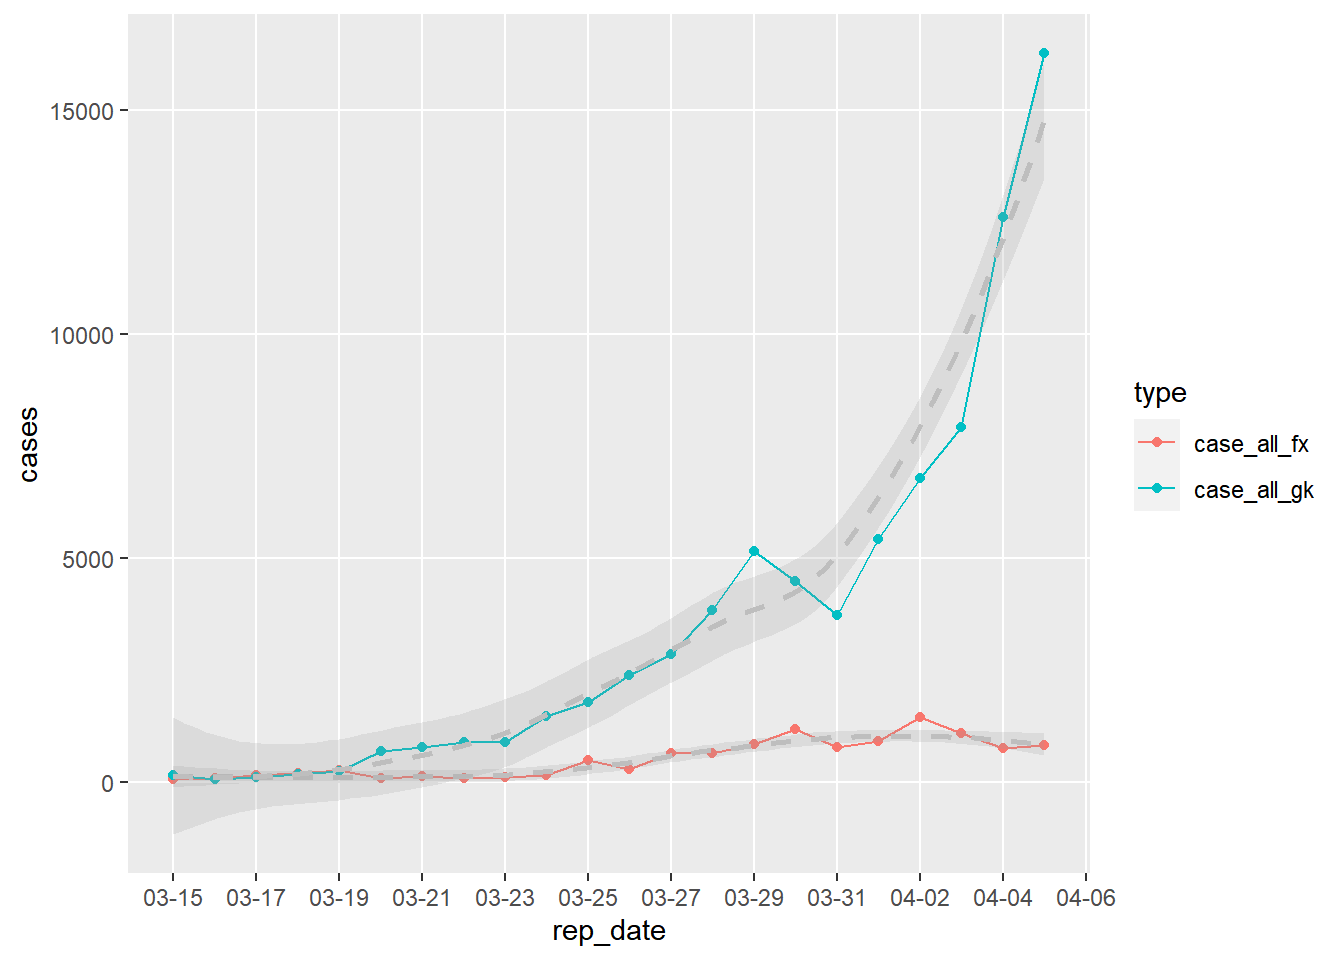
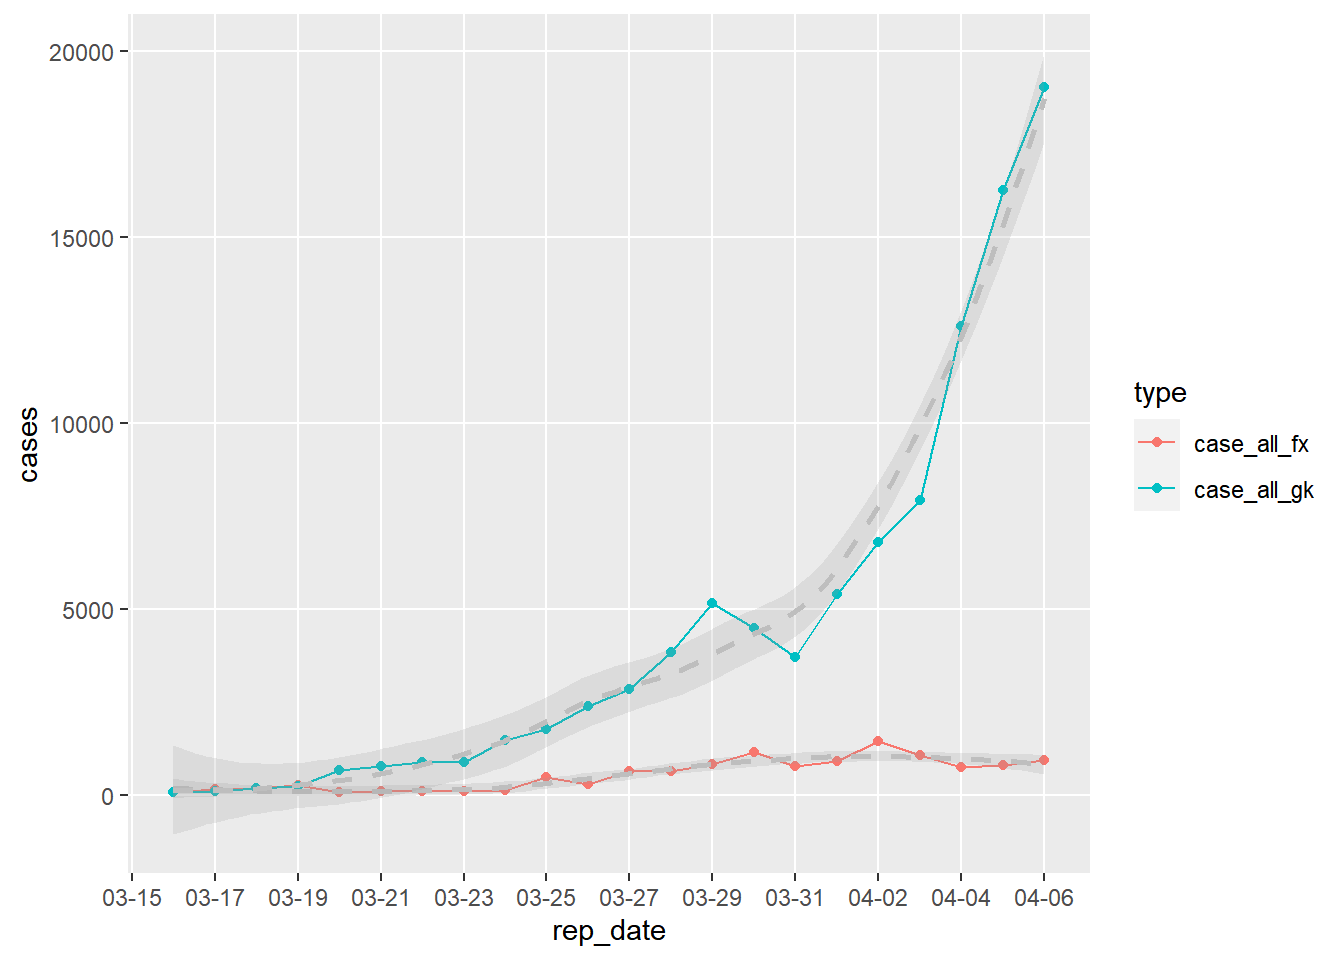
更新

diff --git a/content/post/2022-03-24-covidsh/index.html b/content/post/2022-03-24-covidsh/index.html
@@ -1,5 +1,5 @@
 ---
-title: R爬上海疫情数据简单可视化分析(4月6日更新)
+title: R爬上海疫情数据简单可视化分析(4月7日更新)
 author: Luo Fei
 date: '2022-03-24'
 slug: covidsh
@@ -51,7 +51,8 @@ library(tidyverse)
 library(lubridate)
 library(readxl)
 library(openxlsx)
-library(ggforce)</code></pre>
+library(ggforce)
+library(mgcv)</code></pre>
 </div>
 <div id="主页信息获取" class="section level2" number="1.3">
 <h2><span class="header-section-number">1.3</span> 主页信息获取</h2>
@@ -539,6 +540,19 @@ write.csv(basedata,&quot;data/basedata.csv&quot;)</code></pre>
 </thead>
 <tbody>
 <tr class="odd">
+<td align="left">2022-04-06</td>
+<td align="right">322</td>
+<td align="right">19660</td>
+<td align="right">15</td>
+<td align="right">12</td>
+<td align="right">19027</td>
+<td align="right">307</td>
+<td align="right">633</td>
+<td align="right">19982</td>
+<td align="right">19039</td>
+<td align="right">943</td>
+</tr>
+<tr class="even">
 <td align="left">2022-04-05</td>
 <td align="right">311</td>
 <td align="right">16766</td>
@@ -551,7 +565,7 @@ write.csv(basedata,&quot;data/basedata.csv&quot;)</code></pre>
 <td align="right">16260</td>
 <td align="right">817</td>
 </tr>
-<tr class="even">
+<tr class="odd">
 <td align="left">2022-04-04</td>
 <td align="right">268</td>
 <td align="right">13086</td>
@@ -564,7 +578,7 @@ write.csv(basedata,&quot;data/basedata.csv&quot;)</code></pre>
 <td align="right">12606</td>
 <td align="right">748</td>
 </tr>
-<tr class="odd">
+<tr class="even">
 <td align="left">2022-04-03</td>
 <td align="right">425</td>
 <td align="right">8581</td>
@@ -577,7 +591,7 @@ write.csv(basedata,&quot;data/basedata.csv&quot;)</code></pre>
 <td align="right">7927</td>
 <td align="right">1079</td>
 </tr>
-<tr class="even">
+<tr class="odd">
 <td align="left">2022-04-02</td>
 <td align="right">438</td>
 <td align="right">7788</td>
@@ -590,7 +604,7 @@ write.csv(basedata,&quot;data/basedata.csv&quot;)</code></pre>
 <td align="right">6789</td>
 <td align="right">1437</td>
 </tr>
-<tr class="odd">
+<tr class="even">
 <td align="left">2022-04-01</td>
 <td align="right">260</td>
 <td align="right">6051</td>
@@ -602,19 +616,6 @@ write.csv(basedata,&quot;data/basedata.csv&quot;)</code></pre>
 <td align="right">6311</td>
 <td align="right">5410</td>
 <td align="right">901</td>
-</tr>
-<tr class="even">
-<td align="left">2022-03-31</td>
-<td align="right">358</td>
-<td align="right">4144</td>
-<td align="right">20</td>
-<td align="right">8</td>
-<td align="right">3710</td>
-<td align="right">338</td>
-<td align="right">434</td>
-<td align="right">4502</td>
-<td align="right">3718</td>
-<td align="right">784</td>
 </tr>
 </tbody>
 </table>
@@ -638,7 +639,10 @@ write.csv(basedata,&quot;data/basedata.csv&quot;)</code></pre>
 <p><img src="{{< blogdown/postref >}}index_files/figure-html/unnamed-chunk-20-1.png" width="672" style="display: block; margin: auto;" /></p>
 <div id="预测" class="section level2" number="3.1">
 <h2><span class="header-section-number">3.1</span> 预测</h2>
-<p>建立线性回归模型, 4月7日，预测16912
+<p>建立线性回归模型, 预测4月7日检出感染者20852
 <img src="{{< blogdown/postref >}}index_files/figure-html/unnamed-chunk-21-1.png" width="672" style="display: block; margin: auto;" /></p>
 </div>
+</div>
+<div id="动力学微分方程" class="section level1" number="4">
+<h1><span class="header-section-number">4</span> 动力学微分方程</h1>
 </div>
